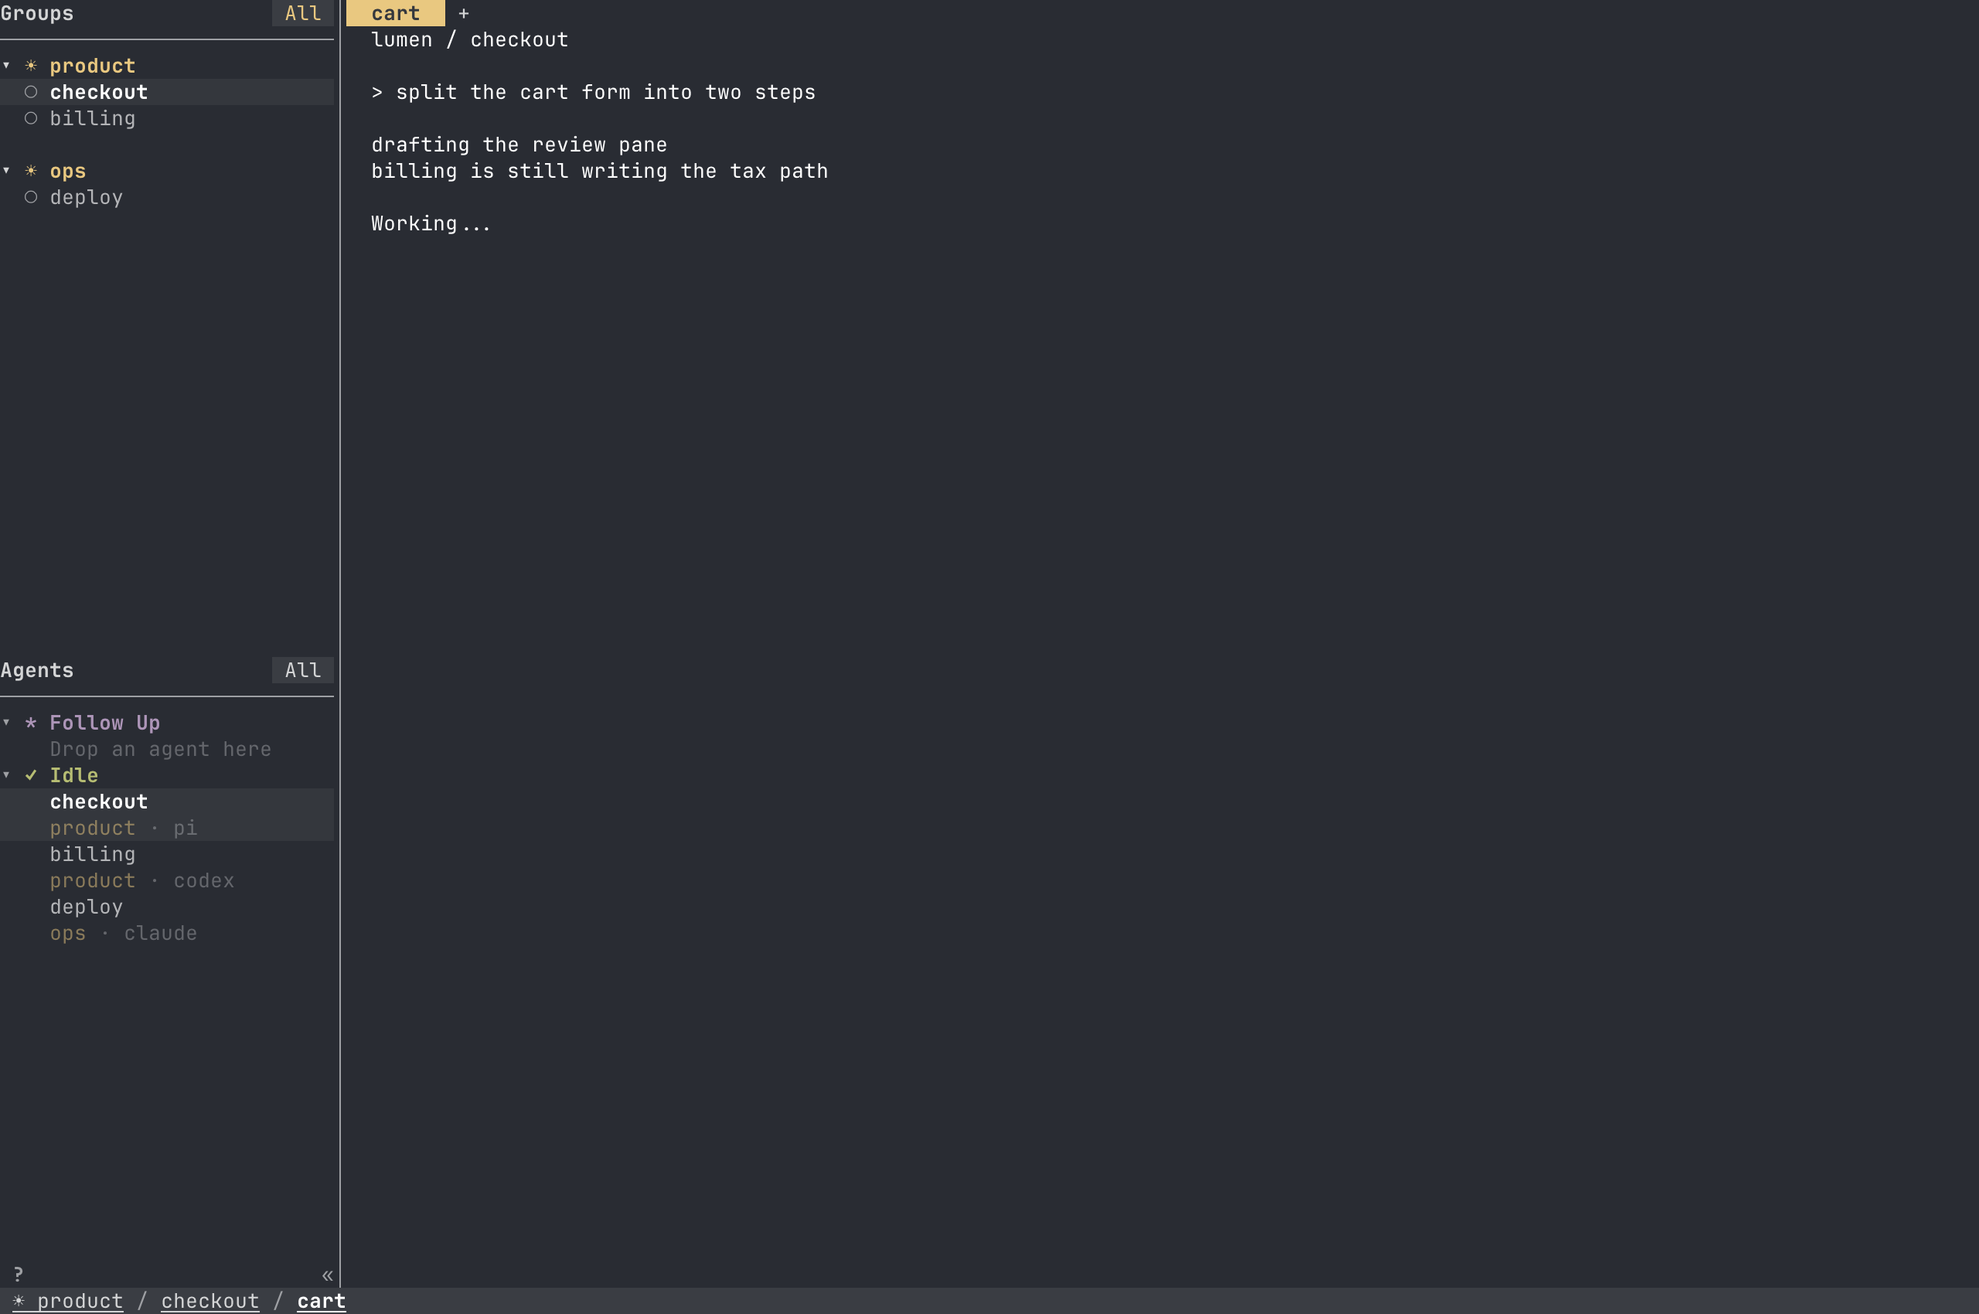
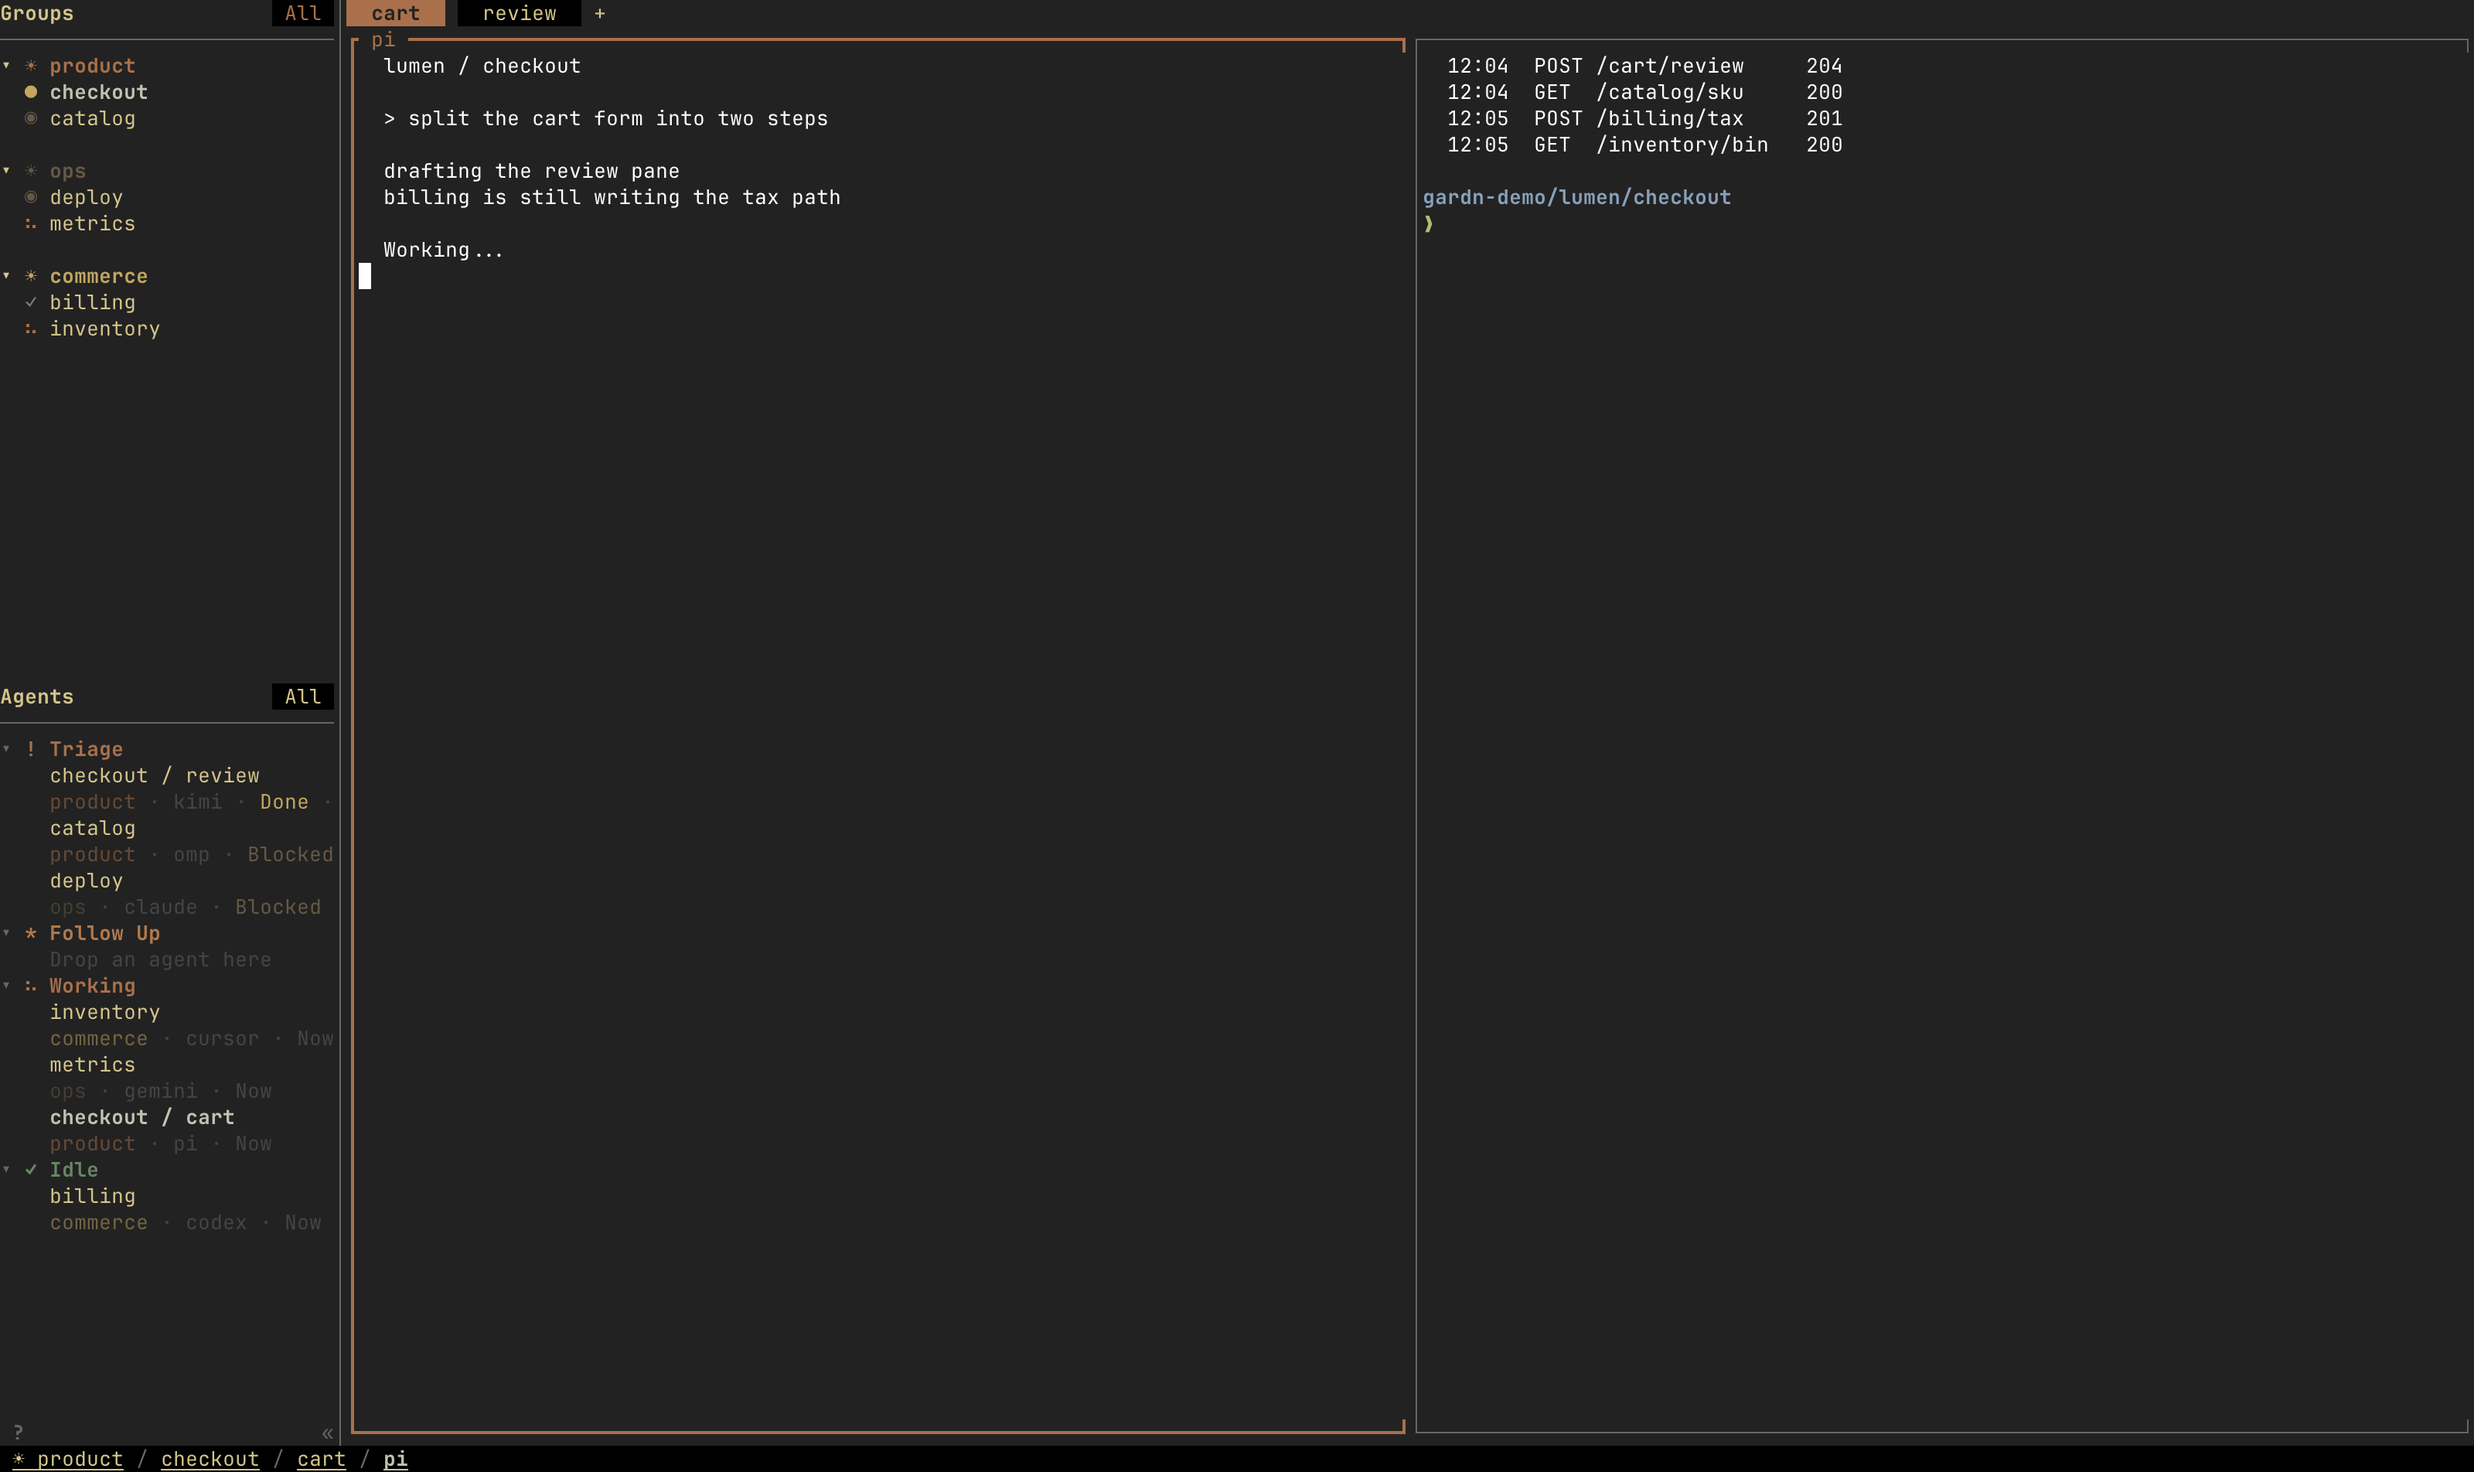
design: recapture Home as a full session showcase
Fictional lumen workspace with three accented groups,
split panes, and triage, working, and idle agents.

diff --git a/website/src/responsive-design-prototype.tsx b/website/src/responsive-design-prototype.tsx
@@ -144,9 +144,9 @@ function HomePage() {
         <img
           className="rd-shot-frame"
           src="/session.png"
-          width={2560}
-          height={1700}
-          alt="A Gardn session. Groups product and ops sit in the sidebar. Checkout is focused. Agents for checkout, billing, and deploy are listed below."
+          width={3200}
+          height={1904}
+          alt="A Gardn session of a fictional lumen workspace. Groups product, ops, and commerce use different accents. Checkout is split across two panes. The agent list shows triage, working, and idle."
         />
       </figure>
       <h1 id="rd-home-title">All agents, all terminals, all machines, one session.</h1>
